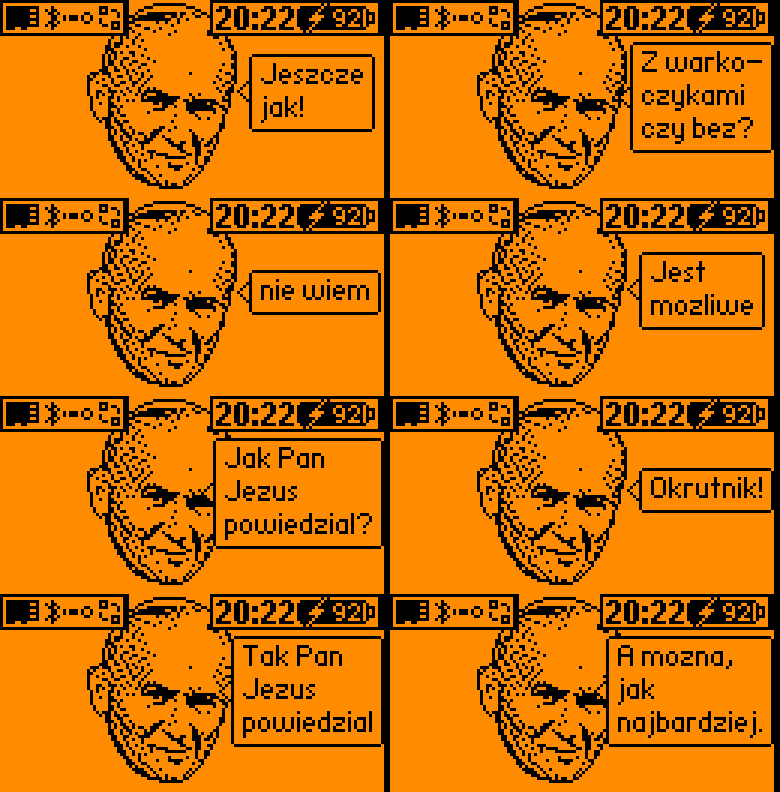
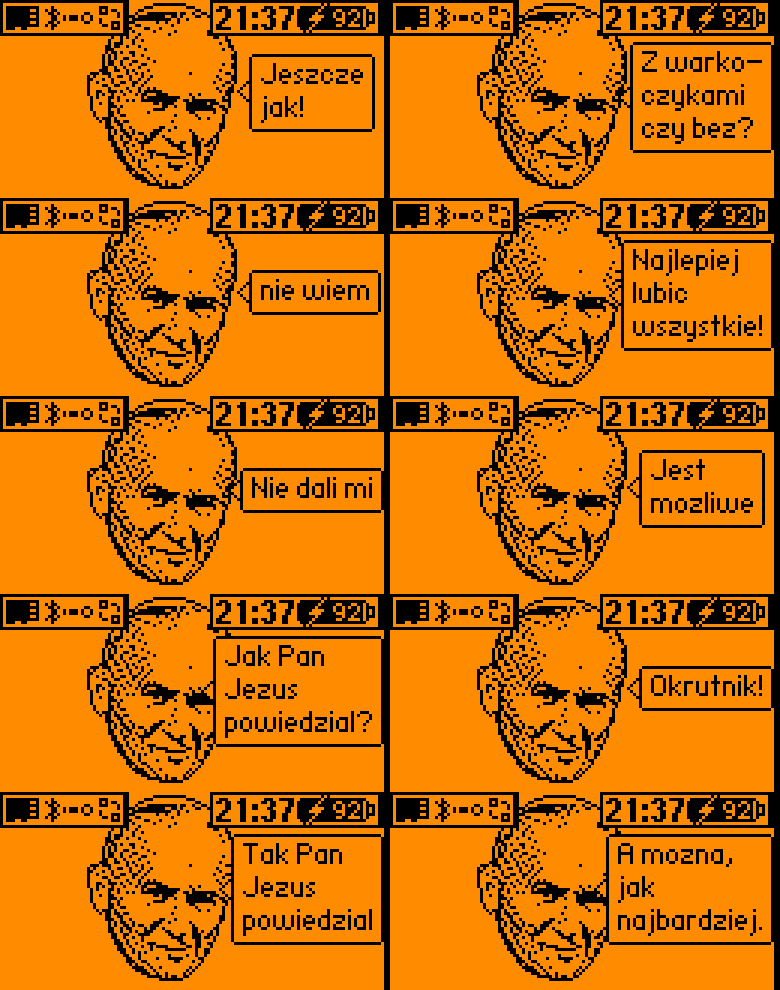
Dodaj teksty „Najlepiej lubić wszystkie!” i „Nie dali mi”
- dwa nowe dymki w TEKSTY, przebudowany meta.txt (10 slotów)
- kolaż wszystkich dymków z nowymi panelami i godziną 21:37
- README: lista tekstów i jeden zrzut ekranu („Jeszcze jak!”)

diff --git a/zbuduj.py b/zbuduj.py
@@ -30,6 +30,8 @@ TEKSTY = [
     "Jeszcze\njak!",
     "Z warko-\nczykami\nczy bez?",
     "nie wiem",
+    "Najlepiej\nlubić\nwszystkie!",
+    "Nie dali mi",
     "Jest\nmożliwe",
     "Jak Pan\nJezus\npowiedział?",
     "Okrutnik!",

diff --git a/README.md b/README.md
@@ -11,18 +11,17 @@ z tekstów, wybierany losowo.
 
 ## Co mówi papież
 
-| | |
-|---|---|
-| ![Jeszcze jak!](docs/ekran_jeszcze_jak.png) | ![Jak Pan Jezus powiedział?](docs/ekran_jak_pan_jezus.png) |
-| ![Jest możliwe](docs/ekran_jest_mozliwe.png) | |
+![Jeszcze jak!](docs/ekran_jeszcze_jak.png)
 
-*Zrzuty ekranu z Flippera.*
+*Zrzut ekranu z Flippera.*
 
 Wszystkie teksty:
 
 - Jeszcze jak!
 - Z warkoczykami czy bez?
 - nie wiem
+- Najlepiej lubić wszystkie!
+- Nie dali mi
 - Jest możliwe
 - Jak Pan Jezus powiedział?
 - Okrutnik!
@@ -34,8 +33,6 @@ Wszystkie teksty:
 *Wszystkie dymki narysowane fontem Flippera (symulacja, pasek statusu wzięty ze
 zrzutu ekranu).*
 
-Fonty Flippera nie mają polskich znaków, dlatego na ekranie jest „mozliwe”
-i „powiedzial”.
 
 ## Instalacja
 
